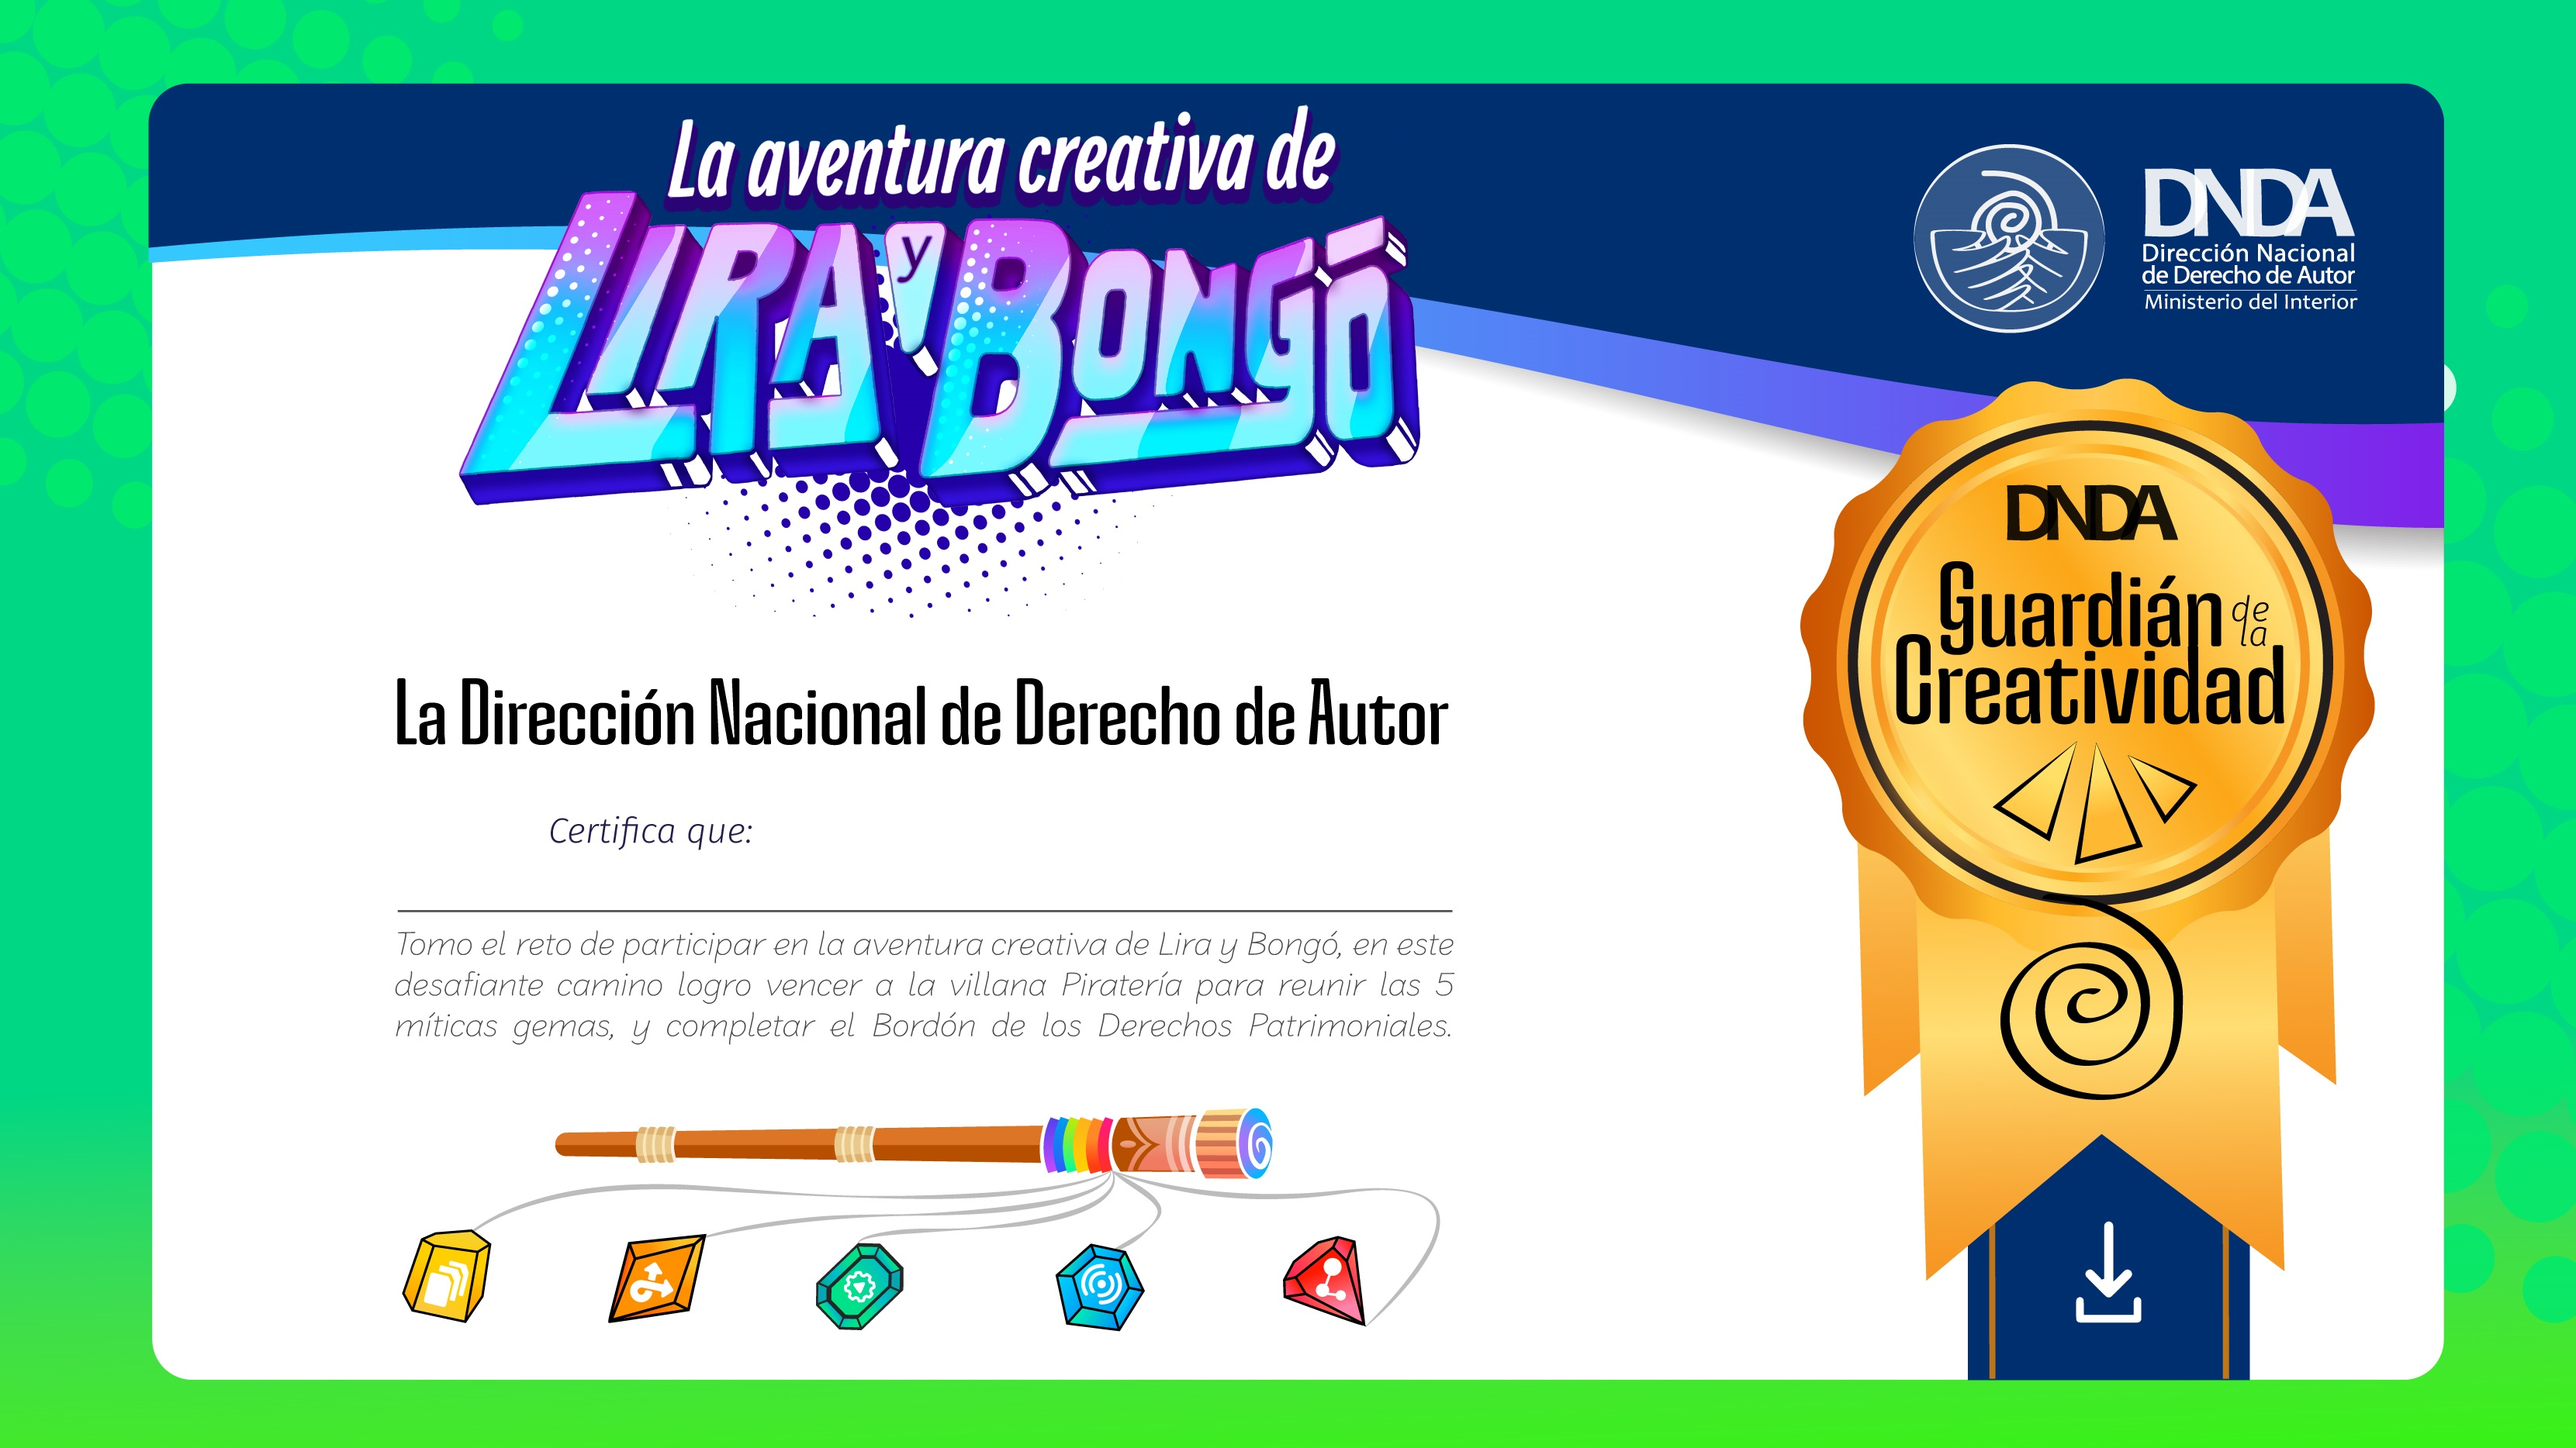
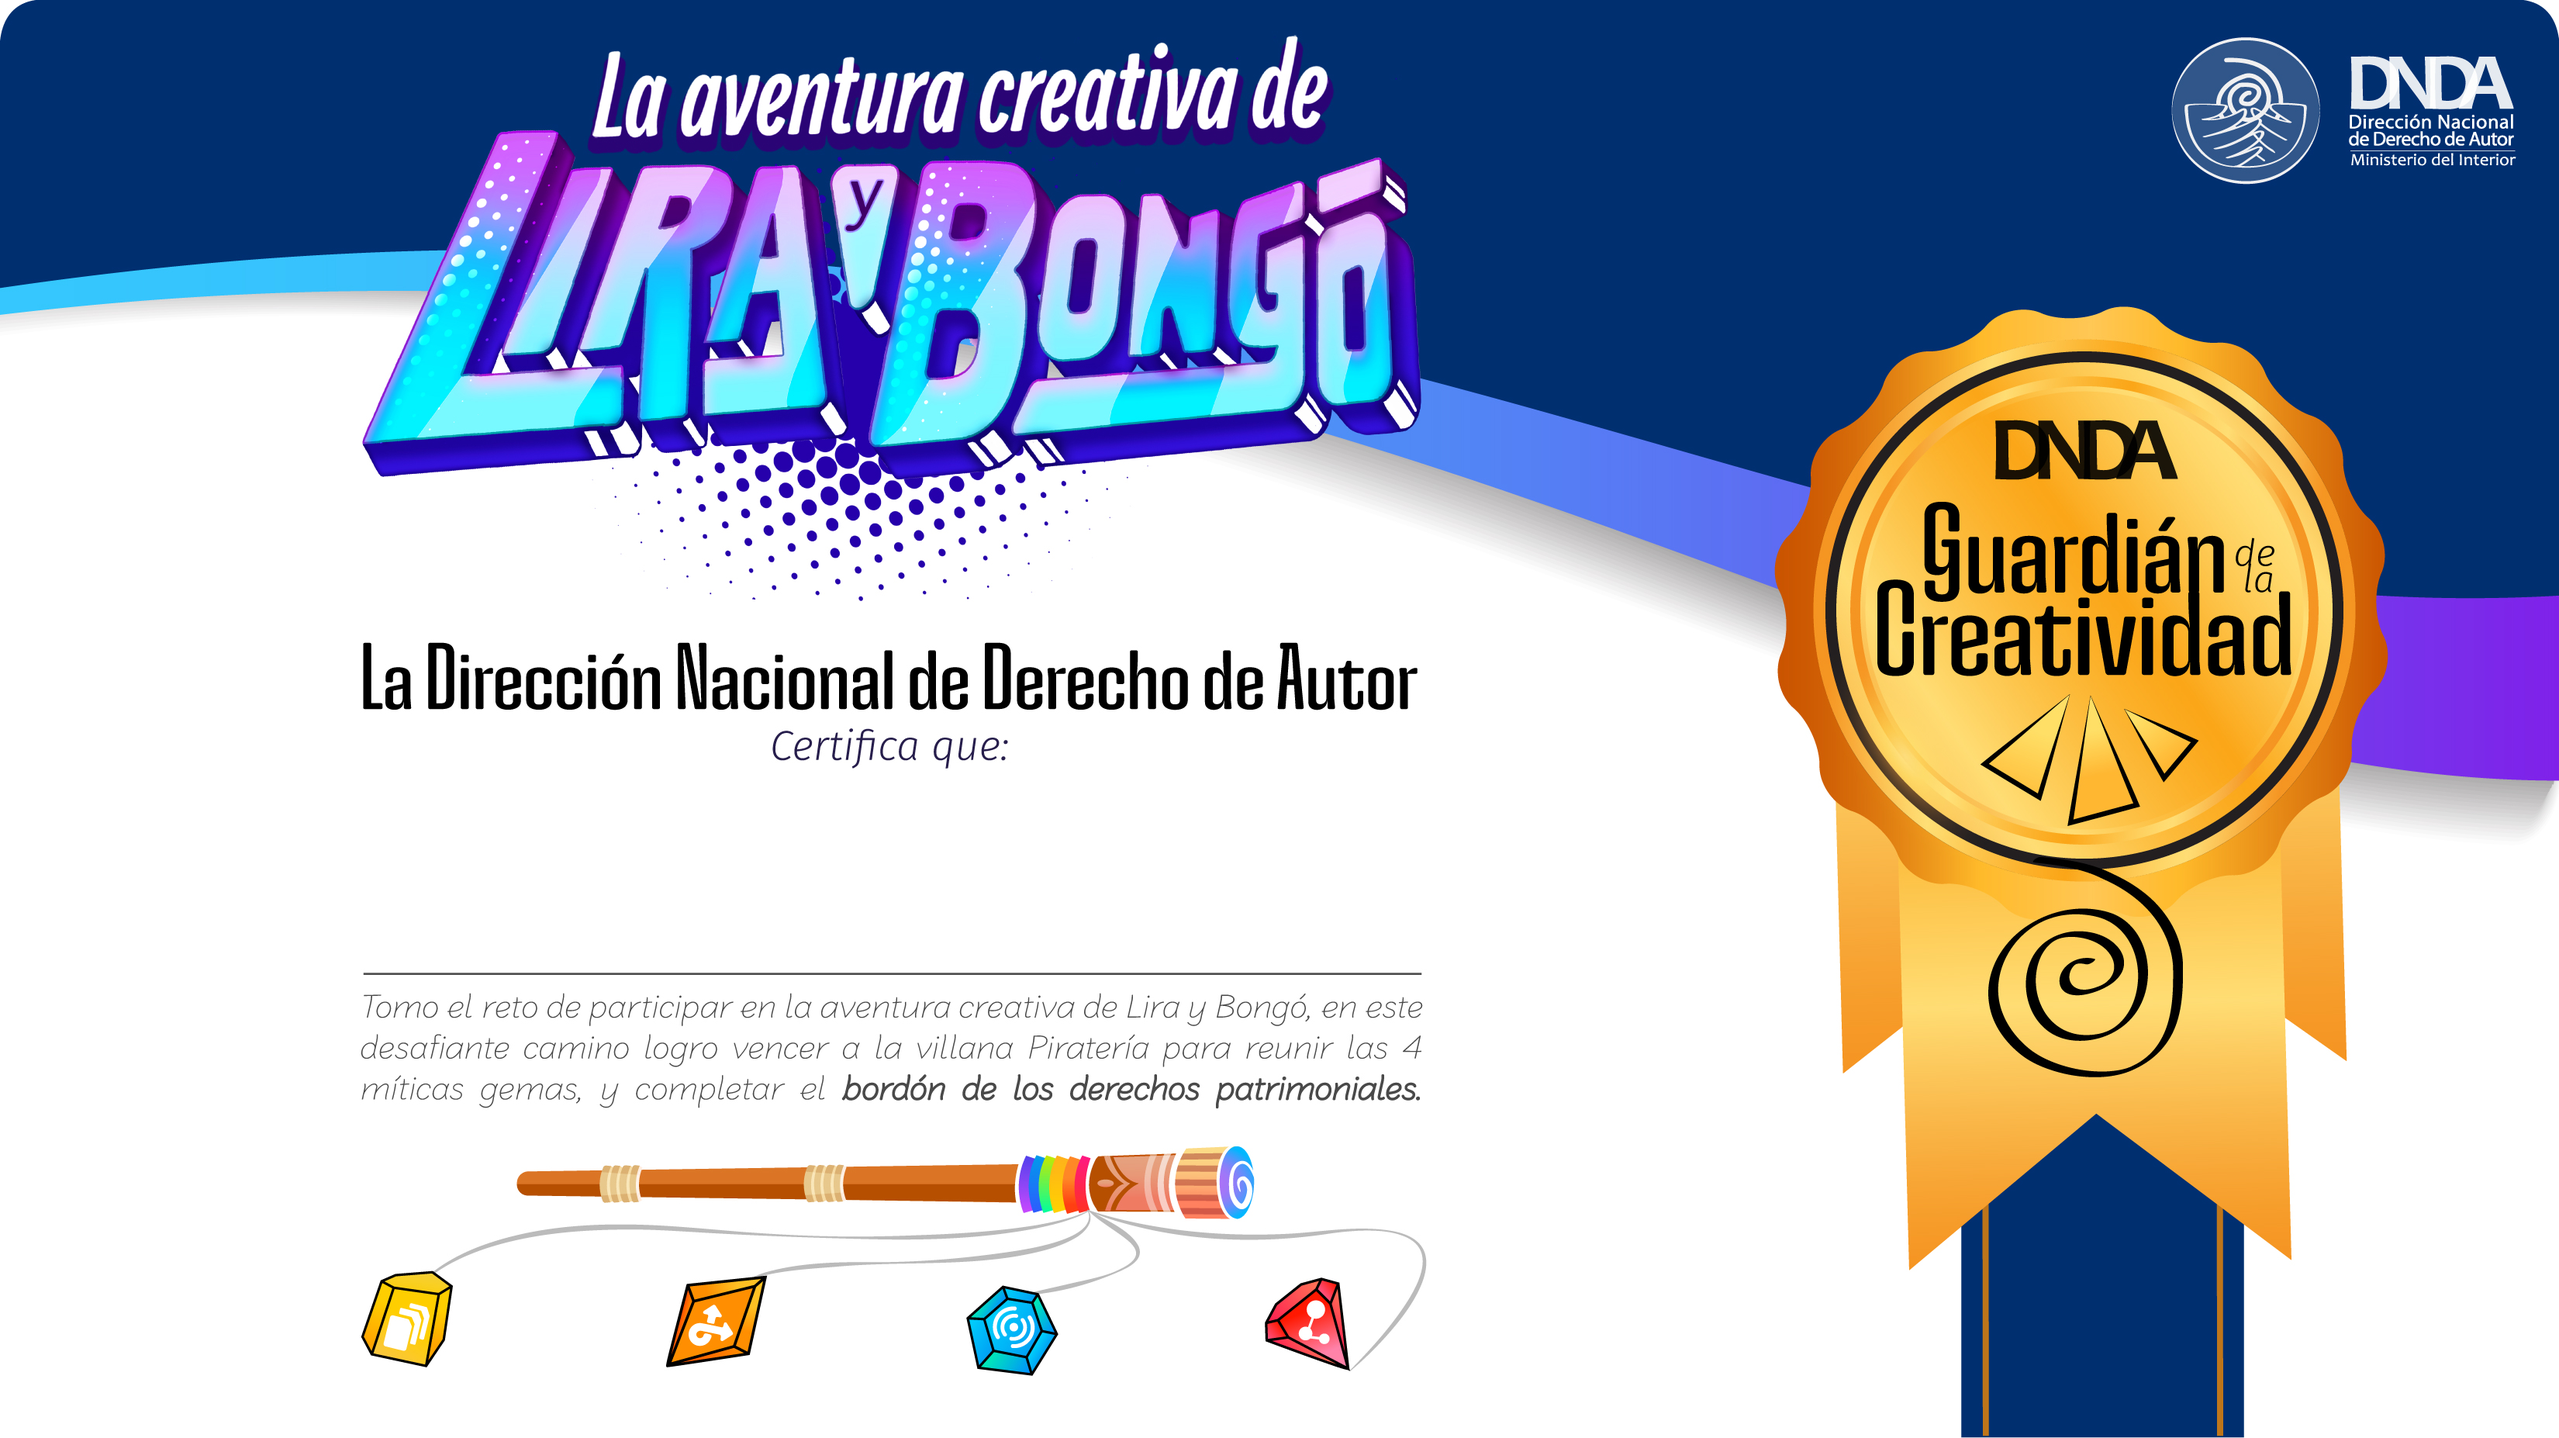
Ajusatando certificado

diff --git a/js/certificado.js b/js/certificado.js
@@ -11,7 +11,7 @@ function configurarHtml2Pdf() {
         // Configuración para la generación de imágenes a partir del HTML
         html2canvas: {
             scale: 3, // Escala del lienzo HTML2Canvas (mayor escala para mejores gráficos, pero más peso)
-            letterRendering: true, // Activar renderizado de texto mejorado (puede afectar el rendimiento)
+            letterRendering: true, // Actilet renderizado de texto mejorado (puede afectar el rendimiento)
         },
         // Configuración específica de jsPDF (la biblioteca subyacente utilizada por html2pdf)
         jsPDF: {
@@ -30,18 +30,25 @@ function generarYDescargarPDF(elementoParaConvertir) {
         .catch(err => console.log(err));
 }
 
-// Función principal para inicializar el proceso cuando se carga el DOM
-function iniciarProcesoDescargaPDF() {
-    document.addEventListener("DOMContentLoaded", () => {
-        // Escuchamos el clic del botón
-        const botonDescargar = document.querySelector("#idCertificadoDescargar");
 
-        botonDescargar.addEventListener("click", () => {
-            const elementoParaConvertir = document.body; // Puedes elegir cualquier elemento del DOM
-            generarYDescargarPDF(elementoParaConvertir);
-        });
+let svgObjects = document.querySelectorAll(".classDescargar");
+    
+// Para cada elemento SVG seleccionado, agrega un evento de carga
+svgObjects.forEach(function (svgObject) {
+  svgObject.addEventListener("load", function () {
+    // Obtiene el documento SVG cargado dentro del objeto <object>
+    let svgDocument = svgObject.contentDocument;
+
+    // Selecciona todos los elementos con la clase '.elemento-svg' dentro del documento SVG
+    let elementsSVG = svgDocument.querySelectorAll(".elemento-svg");
+    // Para cada elemento con la clase '.elemento-svg', agrega un evento de clic
+    elementsSVG.forEach(function (elementoSVG) {
+      elementoSVG.onclick = function () {
+        const elementoParaConvertir = document.body; // Puedes elegir cualquier elemento del DOM
+        console.log(elementoParaConvertir);
+        generarYDescargarPDF(elementoParaConvertir);
+      };
     });
-}
+  });
+});
 
-// Llama a la función principal para iniciar el proceso
-iniciarProcesoDescargaPDF();

diff --git a/js/cargarOtrasPaginas.js b/js/cargarOtrasPaginas.js
@@ -26,7 +26,7 @@ document.addEventListener('keyup', function(event) {
           .then((response) => response.text())
           .then((data) => {
             //Actualizar el contenido del div con el nuevo html
-            var entro = localStorage.getItem('entro');
+            let entro = localStorage.getItem('entro');
             if(archivo !== "mision1.html" || entro === "true"){
               mostrarContenido(archivo);
               cambiarTituloPagina(archivo);
@@ -81,21 +81,21 @@ document.addEventListener('keyup', function(event) {
     
     
     //Metodo por  AXIOS   <script src="https://cdn.jsdelivr.net/npm/axios/dist/axios.min.js"></script>
-    var svgObjects = document.querySelectorAll(".classSvgContainer");
+    let svgObjects = document.querySelectorAll(".classSvgContainer");
     
     // Para cada elemento SVG seleccionado, agrega un evento de carga
     svgObjects.forEach(function (svgObject) {
       svgObject.addEventListener("load", function () {
         // Obtiene el documento SVG cargado dentro del objeto <object>
-        var svgDocument = svgObject.contentDocument;
+        let svgDocument = svgObject.contentDocument;
     
         // Selecciona todos los elementos con la clase '.elemento-svg' dentro del documento SVG
-        var elementsSVG = svgDocument.querySelectorAll(".elemento-svg");
+        let elementsSVG = svgDocument.querySelectorAll(".elemento-svg");
         // Para cada elemento con la clase '.elemento-svg', agrega un evento de clic
         elementsSVG.forEach(function (elementoSVG) {
           elementoSVG.onclick = function () {
             // Obtiene el atributo 'data-src' del objeto <object> que contiene el SVG
-          var archivoHTML = svgObject.getAttribute("data-src");
+          let archivoHTML = svgObject.getAttribute("data-src");
             if(archivoHTML != null){
               cargarContenidoDesdeSVG(archivoHTML);// Llama a la función cargarContenido con el archivo HTML como argumento 
             }else{

diff --git a/css/certificado.css b/css/certificado.css
@@ -6,6 +6,10 @@ html{
 }
 
 body {
+    background-image: url("../assets/imagenes/certificado/certificado.jpg");
+    background-repeat: no-repeat; /* Evita la repetición del fondo */
+    background-attachment: fixed;
+    background-position: center;
     max-width: 100vw;
     height: 100vh;
     margin: 0;
@@ -17,31 +21,33 @@ body {
 main{
     width: 100%;
     height: 100%;
+    display: flex;
+    align-items: center;
+    justify-content: center;
+    position: relative;
 }
 
 .classContainerCertificado{
     width: 100%;
     height: 100%;
-    position: relative;
-}
-
-.classImgCertificado{
-    object-fit: scale-down;
-    width: 100%;
-    height: 100%;
+    display: flex;
+    align-items: center;
+    justify-content: flex-start;
 }
 
 .classNombre{
-    position: absolute;
-    top: 57%;
-    left: 30%;
     font-size: 3vw;
     color: #002f70;
     font-weight: bolder;
+    
 }
 
 .classDescargar{
+    height: auto;
+    width: 5%;
     position: absolute;
-    top: 70%;
-    left: 0;
+    bottom: 2%;
+    right: 15%;
+    margin: auto;
+    z-index: 3;
 }

diff --git a/certificado.html b/certificado.html
@@ -10,11 +10,12 @@
 <body>
     <main>
         <div id class="classContainerCertificado" id="certificado">
-            <label class="classNombre" id="idNombre" for="">Sebastian Medina</label>
-            <img class="classImgCertificado" src="assets/imagenes/certificado/certificado.jpg" alt="Imagen certificado">
+            <label class="classNombre" id="idNombre" for=""></label>
         </div>
-        <button id="idCertificadoDescargar" class="classDescargar" >Descargar Certificado</button>
+       <!--  <button id="idCertificadoDescargar" class="classDescargar" >Descargar Certificado</button> -->
+       <object id="idCertificadoDescargar" class="classDescargar" data="assets/svg/certificado/descargar.svg" type="image/svg+xml" width="100%" height="100%" ></object>
     </main>
     <script src="js/certificado.js"></script>
+    <script src="js/asignarNombre.js"></script>
 </body>
 </html>
